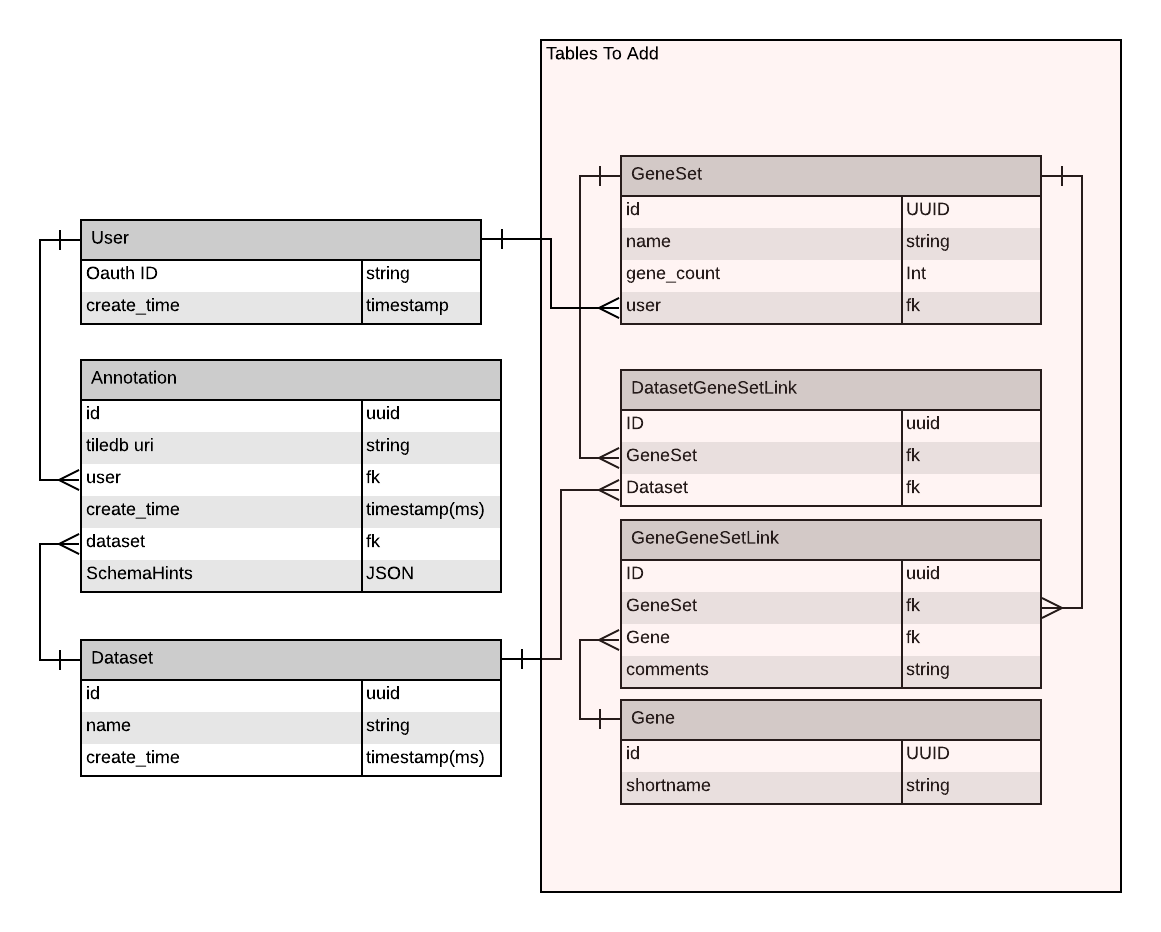
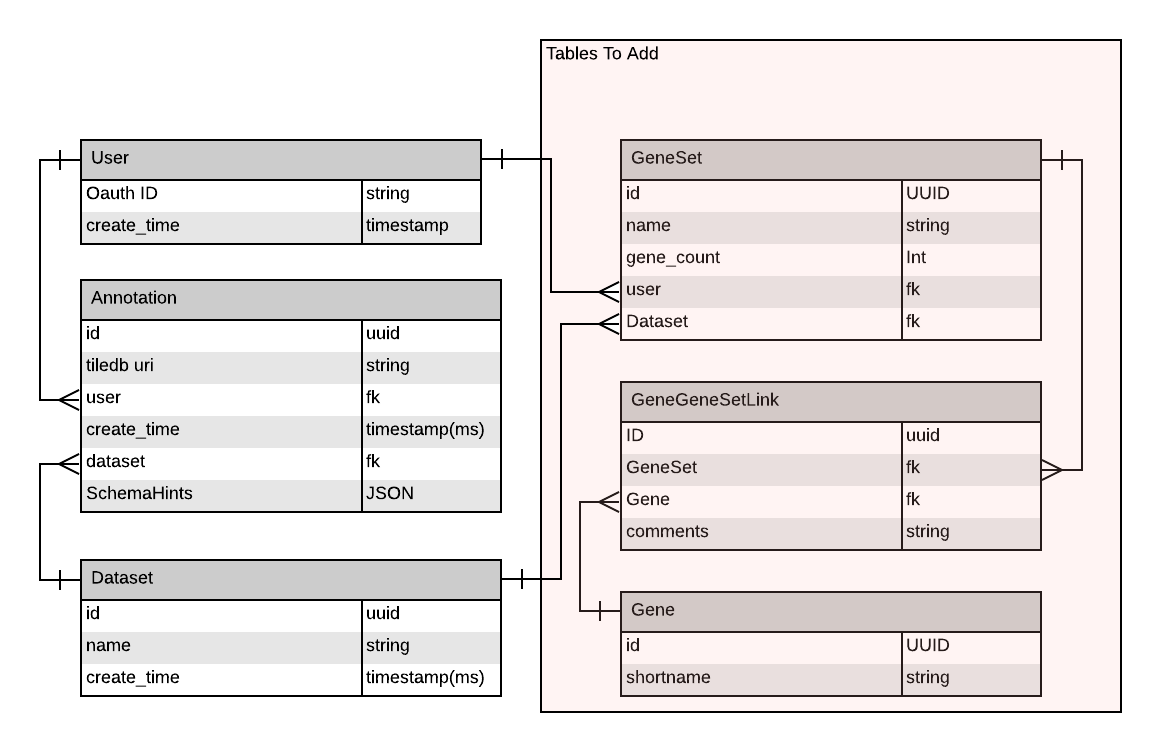
updates for comments, formatting

diff --git a/rfcs/XXXX-gene-sets/text.md b/rfcs/XXXX-gene-sets/text.md
@@ -2,33 +2,33 @@
 
 **Authors:** [Madison Dunitz](mailto:madison.dunitz@chanzuckerberg.com)
 
-**Approvers:** [Friendly Tech Person](mailto:arathi.mani@chanzuckerberg.com), [Friendly PM Person](mailto:schambers@chanzuckerberg.com), [Friendly Tech Person2](mailto:colin.megill@chanzuckerberg.com), [Girish Patangay](mailto:girish.patangay@chanzuckerberg.com), [Sara Gerber](mailto:sara.gerber@chanzuckerberg.com) 
+**Approvers:** [Friendly Tech Person](mailto:arathi.mani@chanzuckerberg.com), [Friendly PM Person](mailto:schambers@chanzuckerberg.com), [Friendly Tech Person2](mailto:colin.megill@chanzuckerberg.com), [Girish Patangay](mailto:girish.patangay@chanzuckerberg.com), [Sara Gerber](mailto:sara.gerber@chanzuckerberg.com)
 
-## tl;dr 
+## tl;dr
 
 This RFC contains the details about the data format for the gene set feature. It will support the import and export of differential
- expression results and allow a user to upload their own gene sets for analysis. 
+ expression results and allow a user to upload their own gene sets for analysis.
  
-## Glossery 
+## Glossary
 - Gene set - List of genes
 - Differential expression - A statistic (typically logfold and p-value) describing the difference in gene expression between two sets of cells. It may refer to stats specific to one gene (differential expression value) or many (differential expression analysis). When referring to many genes it is typically capped (eg top 10 most differentially expressed genes)
-- LogFold - A ratio of the difference in expression levels. Typically calculated by taking the log2 of the gene expression value for each cell and then finding the mean of that value for each set of cells. Because the data is already log2 transformed you can then take the difference between the two means as the logfold value 
+- LogFold - A ratio of the difference in expression levels. Typically calculated by taking the log2 of the gene expression value for each cell and then finding the mean of that value for each set of cells. Because the data is already log2 transformed you can then take the difference between the two means as the logfold value
 ## Problem Statement | Background
 
-Gene sets are the expected output of differential expression analysis in cellxgene. Two (non-overlaping) sets of cells 
-are selected and the difference in the expression level for each gene is computed by comparing the average 
-expression level for each set of cells. When there is a particularly large difference in expression between the two sets of 
-cells, that gene is identified and presented to the user. To ensure consistency and compatibility it is necessary to define a 
-data format for storing references to these genes and any accompanying statistical data. 
+Gene sets are the expected output of differential expression analysis in cellxgene. Two (non-overlaping) sets of cells
+are selected and the difference in the expression level for each gene is computed by comparing the average
+expression level for each set of cells. When there is a particularly large difference in expression between the two sets of
+cells, that gene is identified and presented to the user. To ensure consistency and compatibility it is necessary to define a
+data format for storing references to these genes and any accompanying statistical data.
 
 Product Requirements
 ### Users should be able to export differential expression results
-Currently cellxgene users can choose two sets of cells and compute/display the log fold and adjusted p-value of the top ten differentially expressed genes. Additionally we display a histogram of the gene expression levels of the selected cells for each gene in the right side bar. 
-- [US1] A user should be able to export the list of 10 genes along with their logfold and adjusted p-values in a csv file (see data formats below for more detail) by clicking a button
-### Users should be able to upload their own gene sets and see them in the right side bar with the option to apply them within current cellxgene functionalities, if the same gene ontology was used when generating the current dataset and the geneset uploaded by the user (ie the gene names match) 
+Currently cellxgene users can choose two sets of cells and compute/display the log fold and adjusted p-value of the top ten differentially expressed genes. Additionally we display a histogram of the gene expression levels of the selected cells for each gene in the right side bar.
+- [US1] A user should be able to export a gene set, if the gene set was created by differential expression, the pvalue, log fold change, and category label fields will be populated in addition to the gene name. This will be available in a csv file (see data formats below for more detail).
+### Users should be able to upload their own gene sets and see them in the right side bar with the option to apply them within current cellxgene functionalities, if the same gene ontology was used when generating the current dataset and the geneset uploaded by the user (ie the gene names match)
 - [US2] A user should be able to upload a geneset via a csv file (see data formats below for more detail) for a dataset.
 - [US3] A user should be able to upload a geneset they previously downloaded from cellxgene
-- [US4] When a user uploads a geneset, that list of genes should appear in the right side bar 
+- [US4] When a user uploads a geneset, that list of genes should appear in the right side bar
 - [US5] If the user was logged in when they uploaded a geneset that genesit should persist if they logout and back in or reload the page
 - [US6] If the gene names match those used in the dataset the user should be able to use general cellxgene functionality (color by genes, calculate differential expression levels, etc.) on those genes
 
@@ -39,7 +39,7 @@ Currently cellxgene users can choose two sets of cells and compute/display the l
 
 Fully supporting persistence of differential expression results is out of the scope of this RFC. But the data model described below has been designed to allow for differential expression persistence in the future.
 ### Relational Database
-To support gene sets five tables will be added to the cellxgene relational database
+To support gene sets three tables will be added to the cellxgene relational database
 - Gene
    - UUID (generated)
    - GeneName
@@ -54,21 +54,18 @@ To support gene sets five tables will be added to the cellxgene relational datab
    - GeneSet Name (required)
    - Gene Count (generated)
    - User UUID
--GeneSetDatasetLink
-   - UUID (generated)
-   - GeneSet UUID
    - Dataset UUID
 
-Note - GeneSets will only be linked to datasets when they were uploaded with that dataset
+
 ![Cellxgene Data Schema](imgs/Cellxgene_rds_schema.png)
 **Figure 1** Cellxgene data schema, tables to be added (as described above) are in red
 #### Imported CSV
 GeneSet CSV
 - A file containing a header listing the fields (`GENESET,GENE,PVALUE,LOGFOLD,CELLSET1_CATEGORY.LABEL,CELLSET2_CATEGORY.LABEL,COMMENTS`)
- and a comma separated list of the gene set name, genes, pvalue, logfold value, 
-identifers for the cellsets that were compared to produce those values and details about why they were included. 
-Each gene should be on a new line. Only gene set (name) and gene are required fields. The name of the file will be based on the 
-user name and a timestamp rounded to the nearest second. If cells from two different datasets are being compared the datasest name 
+ and a comma separated list of the gene set name, genes, pvalue, logfold value,
+identifiers for the cell sets that were compared to produce those values and details about why they were included.
+Each gene should be on a new line. Only gene set (name) and gene are required fields. The name of the file will be based on the
+user name and a timestamp rounded to the nearest second. If cells from two different datasets are being compared the datasest name
 should be appended to the cellset label (eg dataset1.categoryA.label1)
 ```
 GENESET,GENE,PVALUE,LOGFOLD,CELLSET1_CATEGORY.LABEL,CELLSET2_CATEGORY.LABEL,COMMENTS
@@ -76,8 +73,8 @@ SET1, a23, .05, 2, tissue.lung, tissue.heart, I picked this gene because I think
 SET1, b46, .01, 4, tissue.lung, tissue.heart, I picked this gene because I think it prevents cancer
 SET1, c19, .35, 2, tissue.lung, tissue.heart, I picked this gene because it has a funny name
 SET2, d57,,, cluster.1, cluster.2,
-SET2, d48,,, cluster.1, cluster.2, 
-SET2, d89,,, cluster.1, cluster.2, 
+SET2, d48,,, cluster.1, cluster.2,
+SET2, d89,,, cluster.1, cluster.2,
 ```
 
 ## Alternatives
